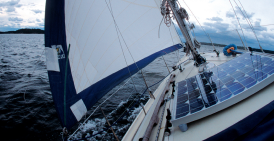
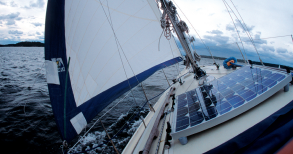
Replace communication pic in our services with image with correct aspect ratio

diff --git a/services.html b/services.html
@@ -123,7 +123,7 @@
         <!--Row start-->
         <div class="row services-row d-flex justify-content-center">
 
-            <div class="col-md-3 col-xl-2 d-flex justify-content-center align-items-center flex-column">
+            <div class="col-md-3 col-xl-2">
                 <div class="services-img-wrap">
                     <img src="images/navigation-systems.png">
                 </div>
@@ -134,7 +134,7 @@
             </div>
             <div class="col-md-3 col-xl-2">
                 <div class="services-img-wrap">
-                    <img src="images/boat-solar-panels.png">
+                    <img src="images/boat-solar-panels-1.png">
                 </div>
                 <h4 class="text-center">Power Systems</h4>
                 <p>Providing reliable power systems for marine vessels,
@@ -143,7 +143,7 @@
             </div>
             <div class="col-md-3 col-xl-2">
                 <div class="services-img-wrap">
-                    <img src="images/communication-systems.png">
+                    <img src="images/communication-systems-1.png">
                 </div>
                 <h4 class="text-center">Communication Systems</h4>
                 <div>

diff --git a/css/style.css b/css/style.css
@@ -1,7 +1,7 @@
 /*------------------------------------Global styles*/
 
 body {
-    font-family: 'Inter';
+    font-family: 'Raleway';
 }
 
 .navbar-nav .nav-item {
@@ -91,6 +91,7 @@ h1 {
     font-size: 0.8rem;
     letter-spacing: 0.2rem;
     font-weight: 200;
+    font-family: 'Inter';
 }
 
 .hero-buttons {
